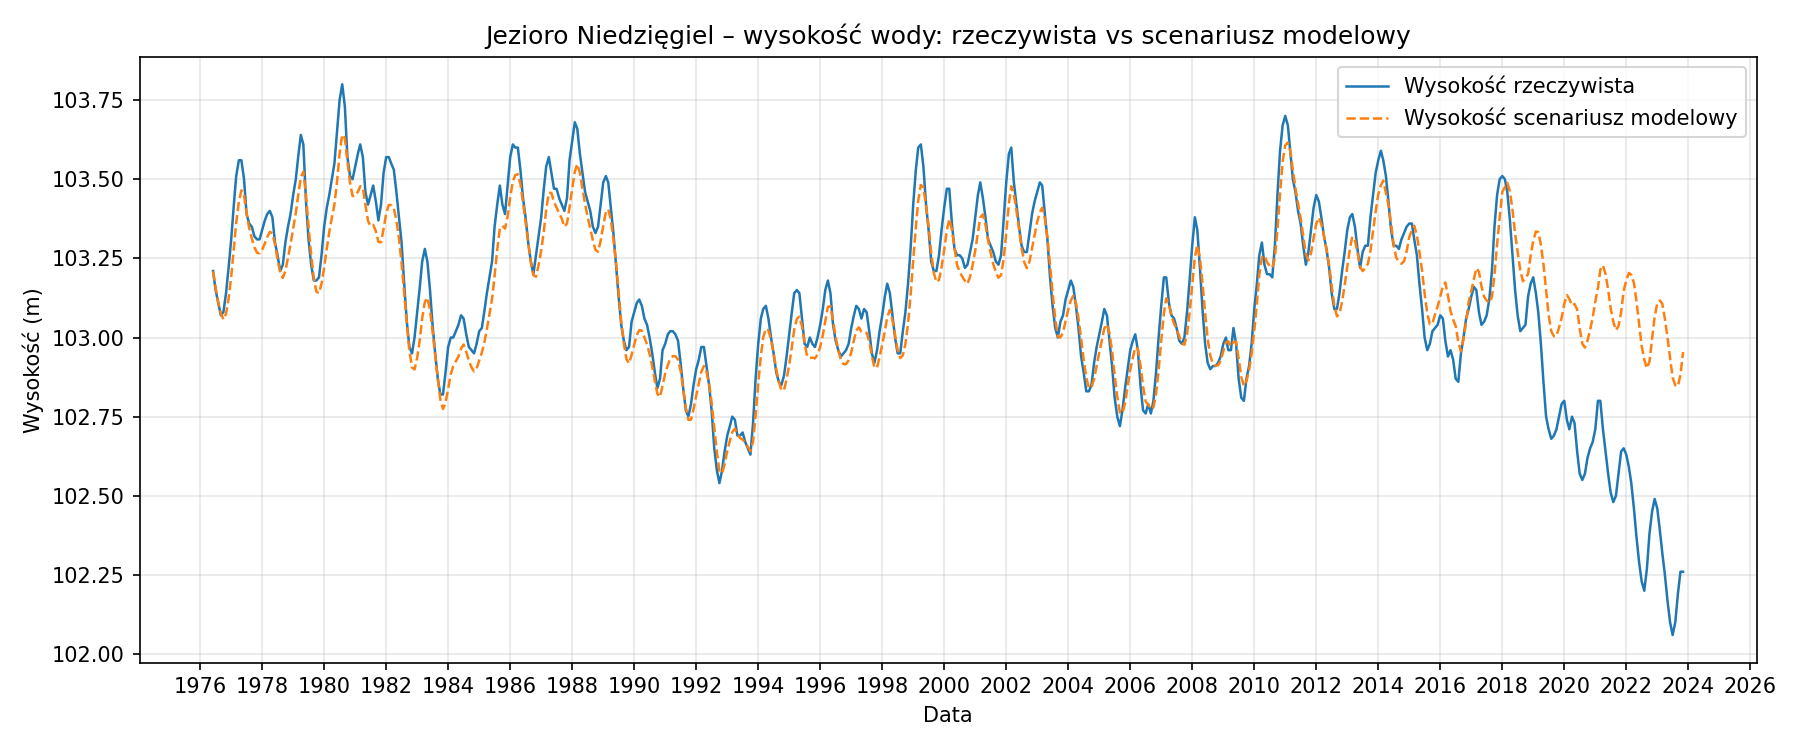
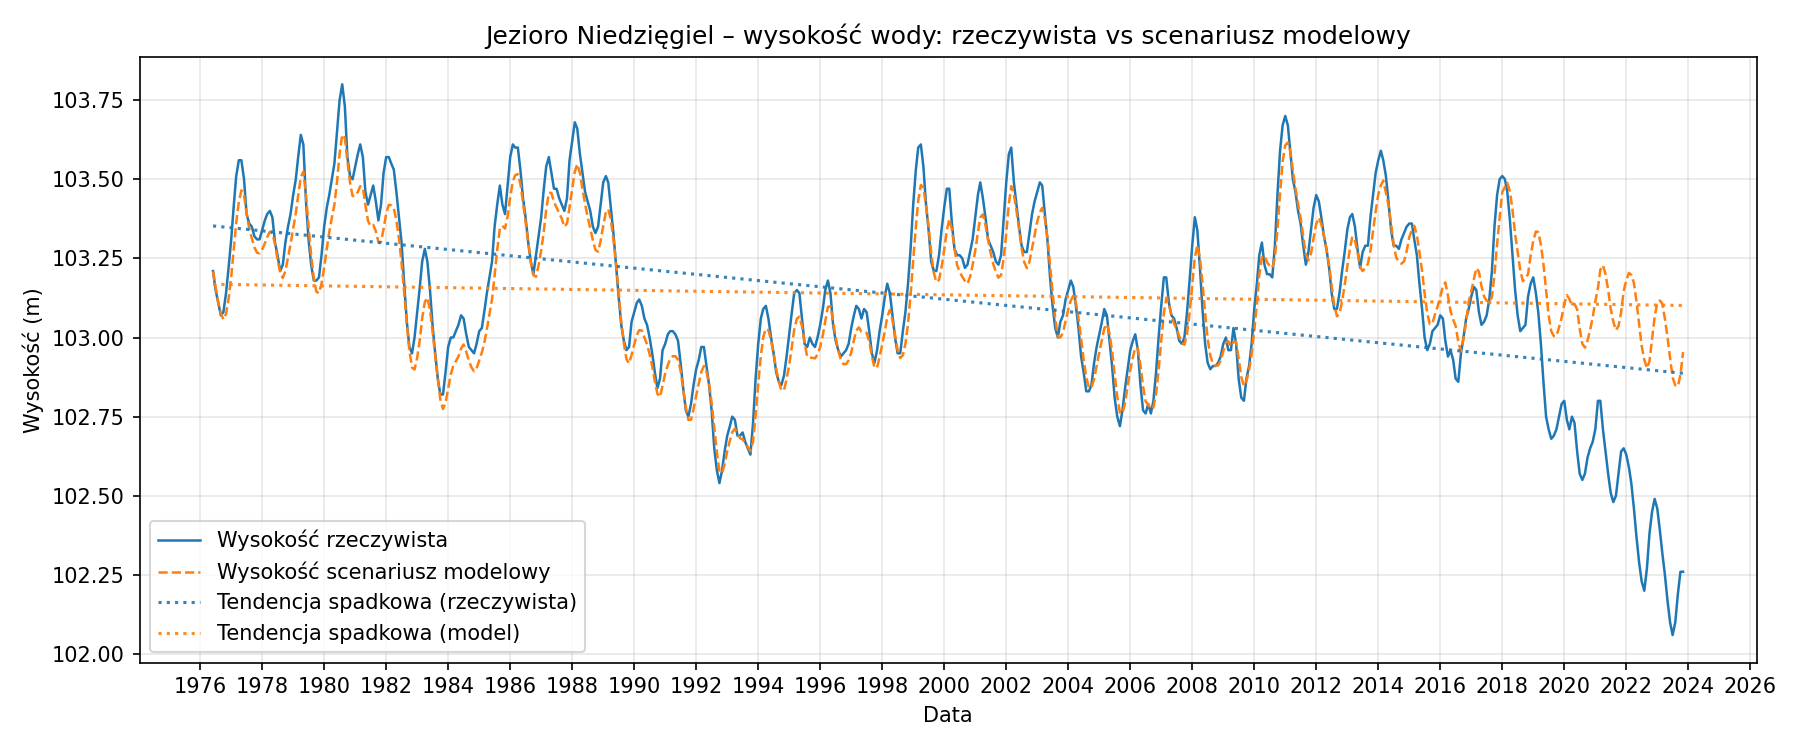
2026.02.14

Changed region(s): [[0.0933, 0.7053, 0.3422, 0.8587], [0.7467, 0.092, 0.9644, 0.184], [0.4044, 0.368, 0.5289, 0.3987]]

diff --git a/generate_report.py b/generate_report.py
@@ -37,11 +37,18 @@ def _test_start_label(lake_id):
 
 def _plot_wysokosci(rows, figs_dir, lake_name):
     dates = [np.datetime64(r["data"] + "-01") for r in rows]
-    rzeczywista = [r["wysokosc_rzeczywista"] for r in rows]
-    model = [r["wysokosc_model"] for r in rows]
+    rzeczywista = np.array([r["wysokosc_rzeczywista"] for r in rows], dtype=float)
+    model = np.array([r["wysokosc_model"] for r in rows], dtype=float)
+    x = np.arange(len(dates))
+    coef_r = np.polyfit(x, rzeczywista, 1)
+    coef_m = np.polyfit(x, model, 1)
+    trend_r = np.polyval(coef_r, x)
+    trend_m = np.polyval(coef_m, x)
     fig, ax = plt.subplots(figsize=(12, 5))
     ax.plot(dates, rzeczywista, label="Wysokość rzeczywista", color="#1f77b4", linewidth=1.2)
     ax.plot(dates, model, label="Wysokość scenariusz modelowy", color="#ff7f0e", linewidth=1.2, linestyle="--")
+    ax.plot(dates, trend_r, label="Tendencja spadkowa (rzeczywista)", color="#1f77b4", linewidth=1.5, linestyle=":", alpha=0.9)
+    ax.plot(dates, trend_m, label="Tendencja spadkowa (model)", color="#ff7f0e", linewidth=1.5, linestyle=":", alpha=0.9)
     ax.set_xlabel("Data")
     ax.set_ylabel("Wysokość (m)")
     ax.set_title(f"{lake_name} – wysokość wody: rzeczywista vs scenariusz modelowy")
